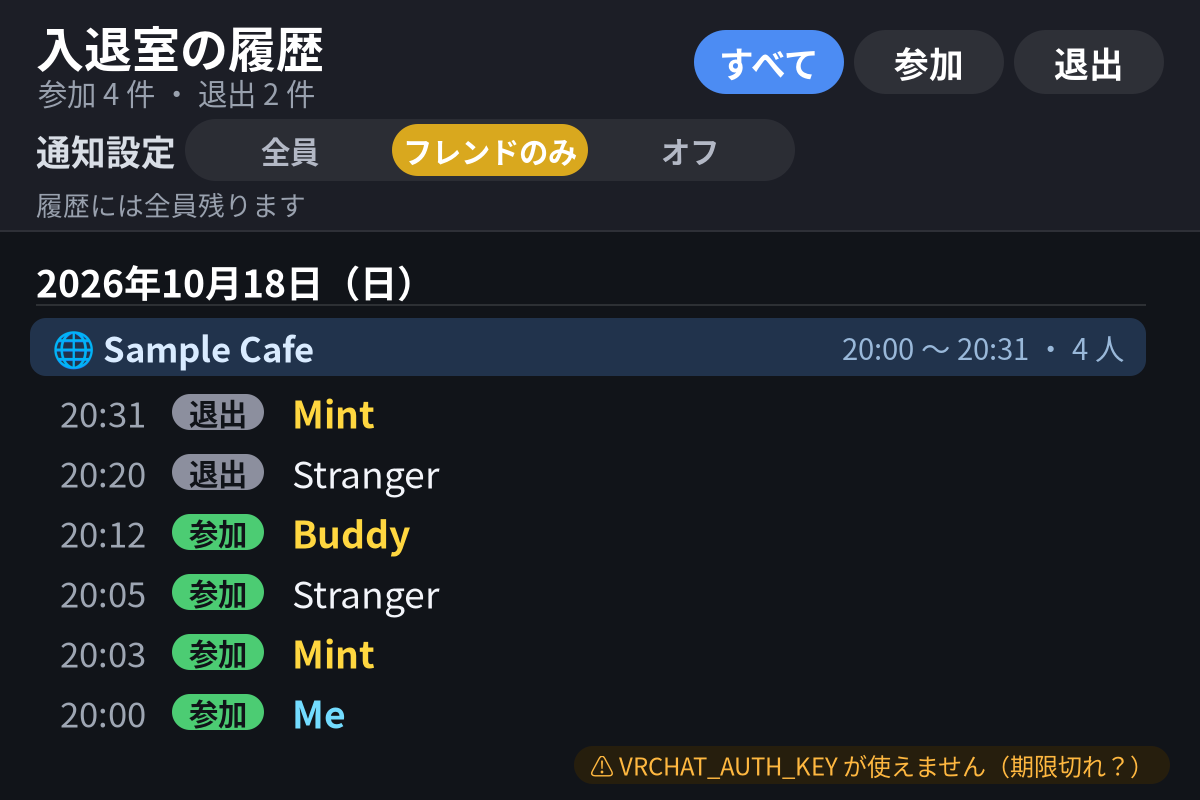
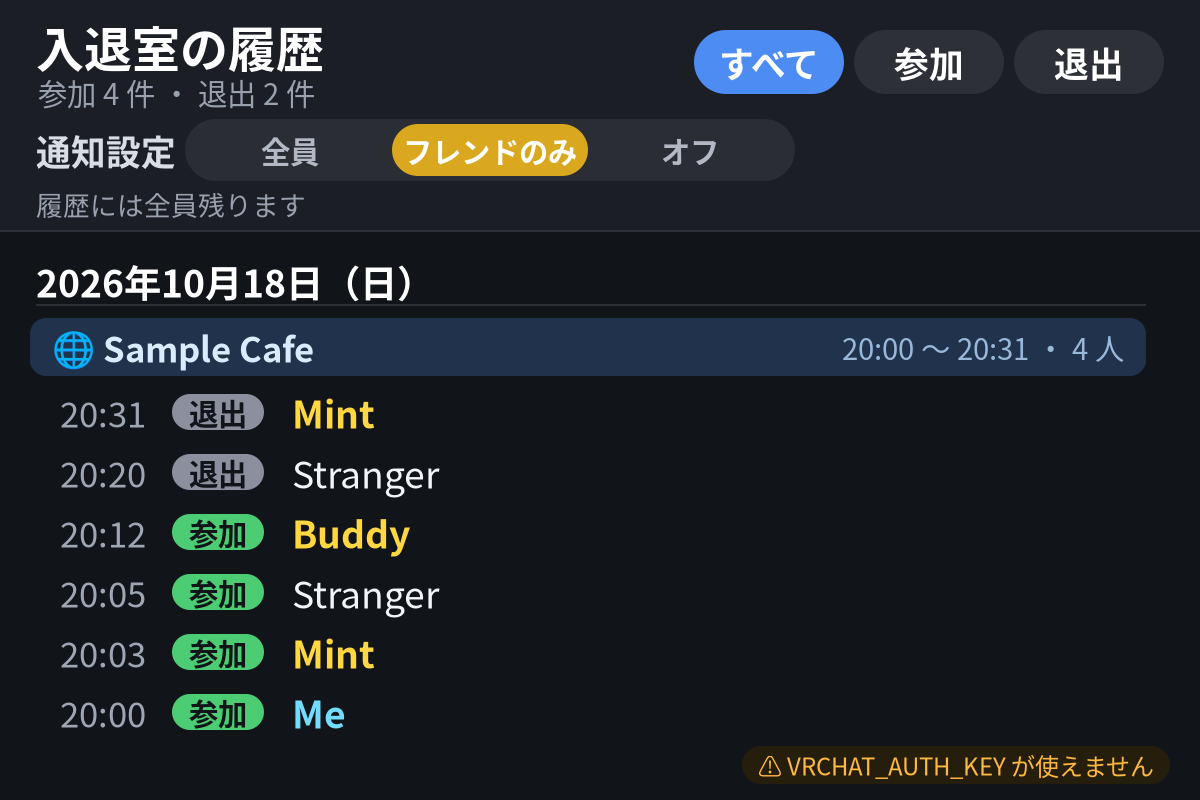
Bad-key note: just 「VRCHAT_AUTH_KEY が使えません」

Changed region(s): [[0.4933, 0.9375, 0.9558, 0.9688]]

diff --git a/frame/wrist-toast.cpp b/frame/wrist-toast.cpp
@@ -637,7 +637,7 @@ static int self_test() {
         ks.friends = "nokey";
         bool k1 = HistoryPanel::key_problem(ks) && std::string(HistoryPanel::key_problem(ks)) == "VRCHAT_AUTH_KEY 未設定";
         ks.friends = "bad";
-        bool k2 = HistoryPanel::key_problem(ks) && std::string(HistoryPanel::key_problem(ks)).find("使えません") != std::string::npos;
+        bool k2 = HistoryPanel::key_problem(ks) && std::string(HistoryPanel::key_problem(ks)) == "VRCHAT_AUTH_KEY が使えません";
         ks.friends = "ok";
         bool k3 = !HistoryPanel::key_problem(ks);
         ks.friends = "";   // 古い Windows 側

diff --git a/frame/panel.h b/frame/panel.h
@@ -256,7 +256,7 @@ public:
     static const char* key_problem(const WatchStatus& st) {
         if (st.watcher != WatchStatus::On) return nullptr;
         if (st.friends == "nokey") return "VRCHAT_AUTH_KEY 未設定";
-        if (st.friends == "bad") return "VRCHAT_AUTH_KEY が使えません（期限切れ？）";
+        if (st.friends == "bad") return "VRCHAT_AUTH_KEY が使えません";
         return nullptr;
     }
 

diff --git a/docs/DEVELOPMENT.md b/docs/DEVELOPMENT.md
@@ -53,7 +53,7 @@ VRChat ──書く──▶ output_log_*.txt ──読む──▶ vrc-wrist-no
 ## VRCHAT_AUTH_KEY の確認（0.4.4）
 
 - Windows 側は起動時に 1 回だけキーを確かめます。キーが無ければ API は呼ばず `nokey`、あればフレンド一覧の取り直しを兼ねて `GET /api/1/auth/user` を 1 回呼び、成功なら `ok`、401 やほかのエラーなら `bad`。結果は `/wrist/heartbeat` の 3 個目で送ります（0.4.1 からの値と同じなので、新旧どちらの組み合わせでも動きます）
-- Frame 側は `nokey` / `bad` のときだけ、パネルの右下に小さく「VRCHAT_AUTH_KEY 未設定」「VRCHAT_AUTH_KEY が使えません（期限切れ？）」と出します。問題が無いとき、見張りが動いていないとき、古い Windows 側のときは何も出しません
+- Frame 側は `nokey` / `bad` のときだけ、パネルの右下に小さく「VRCHAT_AUTH_KEY 未設定」「VRCHAT_AUTH_KEY が使えません」と出します。問題が無いとき、見張りが動いていないとき、古い Windows 側のときは何も出しません
 
 ## 自分の名前は水色（0.4.1）
 
